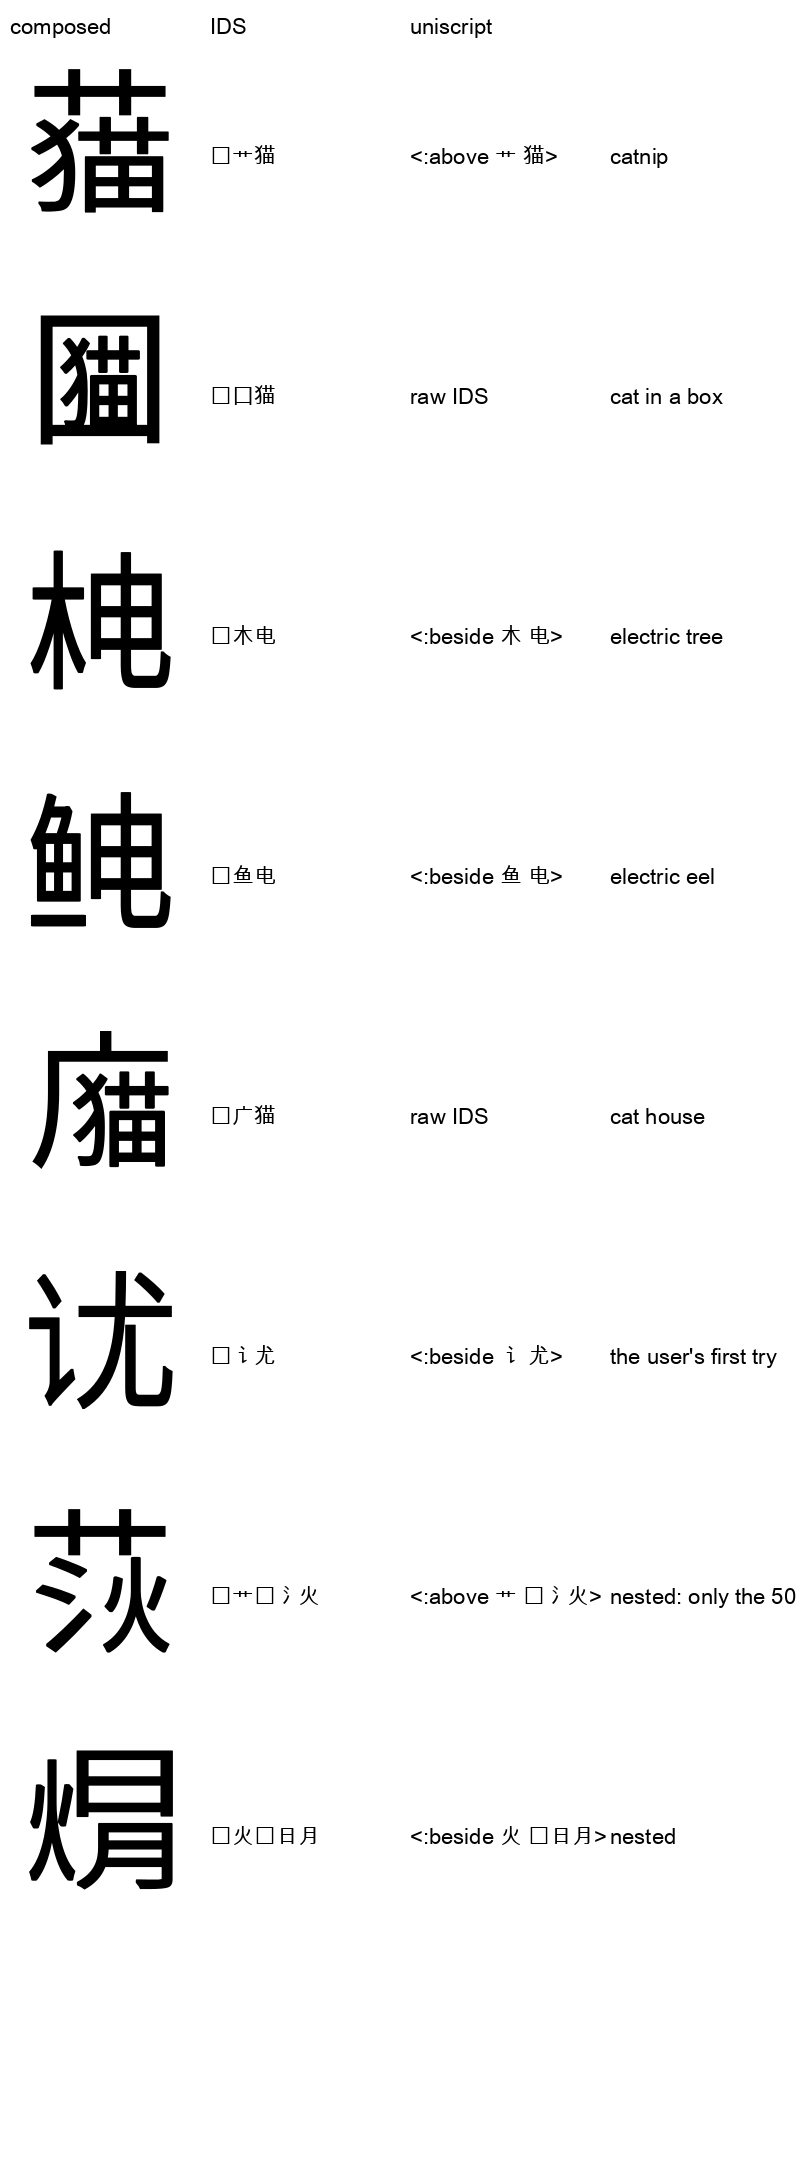
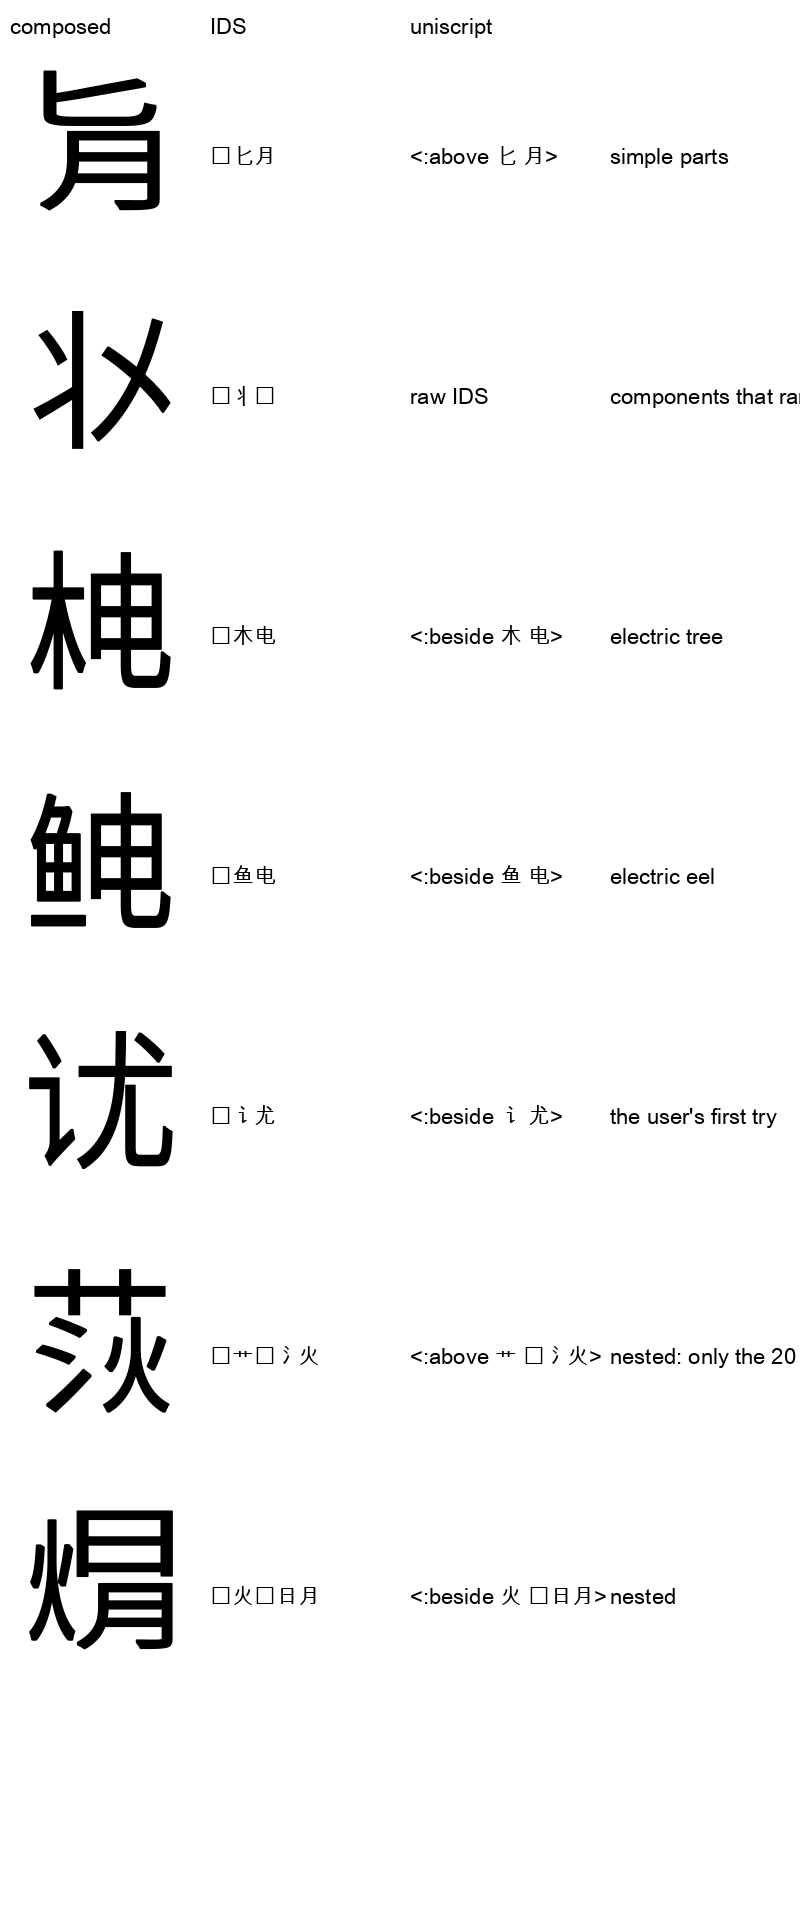
feature(minor): Uniscript Hanzi ranks its parts simplest first (Unihan stroke counts): all radicals, strokes and characters up to 8 strokes, components that rarely stand alone included, complex hanzi left to plain Unicode

diff --git a/fonts/uniscript_fonts.py b/fonts/uniscript_fonts.py
@@ -46,6 +46,8 @@ COLORS = {  # name: (tag letter, RGB)
 IDS_OPERATORS = range(0x2FF0, 0x3000)
 IDS_DATA = os.path.join(SOURCES, "cjkvi-ids.txt")
 IDS_URL = "https://raw.githubusercontent.com/cjkvi/cjkvi-ids/master/ids.txt"
+UNIHAN_DATA = os.path.join(SOURCES, "Unihan.zip")
+UNIHAN_URL = "https://www.unicode.org/Public/UCD/latest/ucd/Unihan.zip"
 OMNI_URL = "https://github.com/nederhof/newgardiner/raw/refs/heads/main/fonts/NewGardinerOmni2d4.ttf"
 LIGATURES_PER_SUBTABLE = 1500  # keeps each LigatureSet below the 64 KB offset limit
 
@@ -61,8 +63,7 @@ HANZI_SHARES = (1 / 3, 0.42, 0.5, 0.58, 2 / 3)  # first part's share of a ⿰ or
 HANZI_BUCKET = 0.25  # parts are classed by their learned strength in steps of this many logits
 HANZI_BUCKETS = range(-4, 5)
 HANZI_NESTED_STRENGTH = 0.6  # a nested sequence holds its own like a dense part
-HANZI_TIERS = (20, 6000)  # the most frequent parts also nest, the others only form simple (unnested) sequences
-HANZI_OFTEN_USED = 20  # parts used this often in IDS rank with the common hanzi
+HANZI_TIERS = (20, 6000)  # the parts IDS use most also nest; the others, simplest first, only form unnested sequences
 HANZI_RASTER = 96  # pixels per em when measuring how real characters split
 HANZI_GRID = 32  # characters and parts are compared at this many pixels square
 HANZI_STRENGTHS = os.path.join(SOURCES, "hanzi-strengths.json")
@@ -716,16 +717,38 @@ def draw_parts(job):
     return variants
 
 
-def ranked_components(cmap):
-    """Parts by how often IDS use them, the often used ones and the common hanzi (what people combine) first."""
+def total_strokes():
+    """{code point: stroke count} from Unihan (kTotalStrokes, first value)."""
+    import zipfile
+    if not os.path.exists(UNIHAN_DATA):
+        download(UNIHAN_URL, UNIHAN_DATA)
+    strokes = {}
+    with zipfile.ZipFile(UNIHAN_DATA) as archive:
+        for line in archive.read("Unihan_IRGSources.txt").decode("utf-8").splitlines():
+            if "\tkTotalStrokes\t" in line:
+                code, _, value = line.split("\t")
+                strokes[int(code[2:], 16)] = int(value.split()[0])
+    return strokes
+
+
+def is_radical_or_stroke(code):
+    return 0x2E80 <= code < 0x2FE0 or 0x31C0 <= code < 0x31F0
+
+
+def ranked_components(cmap, nesting_parts=HANZI_TIERS[0]):
+    """The parts IDS use most (they also nest), then every radical, stroke, component and hanzi from the simplest
+    (fewest strokes) up; among equally simple ones the common hanzi and the parts IDS use most come first."""
     counts = defaultdict(int)
     for _, sequence in ids_sequences(cmap):
         for character in sequence[1:]:
             if ord(character) not in IDS_OPERATORS:
                 counts[character] += 1
-    common = {chr(code) for code in cmap if is_common_hanzi(code)}
-    first = lambda c: c in common or counts[c] >= HANZI_OFTEN_USED
-    return sorted(set(counts) | common, key=lambda c: (not first(c), -counts[c], c))
+    nesting = sorted(counts, key=lambda c: (-counts[c], c))[:nesting_parts]
+    strokes = total_strokes()
+    simple = [chr(code) for code in cmap if is_radical_or_stroke(code) or (0x4E00 <= code < 0xA000 and code in strokes)
+              or (code in strokes and counts[chr(code)])]  # components from the extensions (𠂉 丬 㐅) that rarely stand alone
+    simple.sort(key=lambda c: (strokes.get(ord(c), 0), not is_common_hanzi(ord(c)), -counts[c], c))
+    return nesting + [c for c in simple if c not in nesting]
 
 
 def glyph_name(character):

diff --git a/probes/uniscript-hanzi/render.py b/probes/uniscript-hanzi/render.py
@@ -17,11 +17,10 @@ SIZE = 150
 CELL = 200
 REFERENCES = [("界", "⿱田介"), ("林", "⿰木木"), ("狗", "⿰犭句"), ("草", "⿱艹早"), ("思", "⿱田心"), ("国", "⿴囗玉"), ("连", "⿺辶车")]
 INVENTED = [  # none of these is a Unicode character (checked against cjkvi-ids)
-    ("⿱艹猫", "<:above 艹 猫>", "catnip"),
-    ("⿴囗猫", "raw IDS", "cat in a box"),
+    ("⿱匕月", "<:above 匕 月>", "simple parts"),
+    ("⿰丬㐅", "raw IDS", "components that rarely stand alone"),
     ("⿰木电", "<:beside 木 电>", "electric tree"),
     ("⿰鱼电", "<:beside 鱼 电>", "electric eel"),
-    ("⿸广猫", "raw IDS", "cat house"),
     ("⿰讠尤", "<:beside 讠 尤>", "the user's first try"),
     ("⿱艹⿰氵火", "<:above 艹 ⿰氵火>", "nested: only the 20 most used parts nest"),
     ("⿰火⿱日月", "<:beside 火 ⿱日月>", "nested"),

diff --git a/notes/hanzi.md b/notes/hanzi.md
@@ -2,8 +2,9 @@
 
 Question (user, 2026-10-01): can a font combine arbitrary radicals into new characters with the IDS operators, 界 = ⿱田介?
 **Yes, for simple characters**: `fonts/dist/UniscriptHanzi-Regular.otf` (`python3 fonts/uniscript_fonts.py hanzi`)
-draws any ⿰ ⿱ ⿲ ⿳ ⿴ ⿵ ⿶ ⿷ ⿸ ⿹ ⿺ ⿻ sequence of its 3,910 parts (every character IDS use as a part at least 20 times,
-such as 氵 讠 宀 钅 匕, and the common hanzi of GB 2312 level 1 except 75 compounds no IDS uses, like 饭 = ⿰饣反), whether or not Unicode has the character: ⿰讠尤, ⿱匕月, ⿱艹猫, ⿴囗猫, ⿰鱼电.
+draws any ⿰ ⿱ ⿲ ⿳ ⿴ ⿵ ⿶ ⿷ ⿸ ⿹ ⿺ ⿻ sequence of its 3,910 parts (simplest first by Unihan kTotalStrokes: every radical, stroke
+and character up to 8 strokes, including components that rarely stand alone (㐅 㔾 䒑 丬), plus the 20 parts IDS use most;
+complex characters such as 猫 are left out, so ⿱艹猫 stays uncomposed), whether or not Unicode has the character: ⿰讠尤, ⿱匕月, ⿰木电, ⿰丬㐅.
 One level of nesting works for the 20 most used parts (⿱艹⿰氵火). Renders: `probes/uniscript-hanzi/`
 (`render.py` → reference_*.png real vs composed vs naive, invented_*.png; chrome.png, firefox.png from `browser.html`).
 
@@ -38,6 +39,11 @@ scaled by s regains 70 % of the stem width it lost (`HANZI_KEEP_STROKE`), separa
 naive columns of `reference_ot.png`: composed 林 狗 草 思 国 连 are close to Noto's own; naive halves are spindly.
 
 ## Glyph budget (65,535 per font)
+
+Why 15 sizes per part: ⿰ and ⿱ each split at 5 learned shares (⅓ … ⅔), giving 5 widths and 5 heights, plus the inner
+boxes of the surrounds, the thirds of ⿲ ⿳ and the full size. With 3 shares it would be ≈9 sizes and ≈6,500 parts, but
+讠 or 艹 would then take 40 % instead of a third. Since 3,910 parts already reach every character up to 8 strokes, the
+proportions are worth more than the extra parts.
 
 Nothing is generated at render time: OpenType cannot scale or draw outlines while shaping, it can only pick and move
 glyphs that exist. So every part is precompiled at each size it can take, but combinations are not: the cost grows with

diff --git a/fonts/README.md b/fonts/README.md
@@ -33,7 +33,7 @@ Tags are default-ignorable: without these fonts the text shows the plain charact
 |---|---|---|
 | **Uniscript Sans** | Noto Sans (Latin, Greek, Cyrillic) + Noto Sans Math | ASCII + Greek letters: all geometries × all colors; Latin-1/Ext-A, Greek, symbols, arrows, operators: every geometry or color, not combined; the rest, including math alphanumerics 𝔄𝕕: mirror and turn |
 | **Uniscript CJK** | Noto Sans CJK | IDS composition (27,688 sequences from cjkvi-ids, nested ones too: ⿱木⿰木木 → 森); mirror for radicals, strokes and the 3,755 most common hanzi (GB 2312 level 1) |
-| **Uniscript Hanzi** | Noto Sans CJK, 3,910 parts | IDS draw **new** characters from scaled, re-thickened parts with learned proportions: ⿰讠尤, ⿱艹猫, ⿴囗猫; one level of nesting for the 20 most used parts (⿱艹⿰氵火). A separate font, put it before Uniscript CJK; see [notes/hanzi.md](../notes/hanzi.md) |
+| **Uniscript Hanzi** | Noto Sans CJK, 3,910 parts | IDS draw **new** characters from scaled, re-thickened parts with learned proportions: ⿰讠尤, ⿱匕月, ⿰丬㐅; one level of nesting for the 20 most used parts (⿱艹⿰氵火). A separate font, put it before Uniscript CJK; see [notes/hanzi.md](../notes/hanzi.md) |
 | **NewGardinerOmni2d4** | Nederhof's NewGardiner, OFL, unchanged | Unicode 15 Egyptian format controls: joiners U+13430 vertical / U+13431 horizontal, insertions, U+13440 mirror, groups up to depth 4 |
 | **… Mirror** | NFM-Indus Script (Sublime), JetBrains Mono (JetBrains IDEs), Monaco (iTerm), Menlo (VS Code) | mirror for every character, advance kept, so monospace stays monospace |
 

diff --git a/docs/uniscript.md b/docs/uniscript.md
@@ -296,7 +296,7 @@ script-neutral characters such as TAG join the preceding run, so a prefix is cut
 # New hanzi
 
 The font Uniscript Hanzi (`python3 fonts/uniscript_fonts.py hanzi`) draws any Ideographic Description Sequence of its 3,910
-parts, also characters Unicode does not have: `<:beside 讠 尤>` ⩵ ⿰讠尤, `<:above 艹 猫>` ⩵ ⿱艹猫, and raw IDS such as ⿴囗猫 or,
+parts, also characters Unicode does not have: `<:beside 讠 尤>` ⩵ ⿰讠尤, `<:above 匕 月>` ⩵ ⿱匕月, and raw IDS such as ⿰丬㐅 or,
 for the most used parts, nested ⿱艹⿰氵火 (`<:above 艹 ⿰氵火>`). Parts are scaled into proportions learned from real
 characters and their strokes thickened back. It works in HarfBuzz (Chrome) and CoreText (Safari, macOS apps) wherever the
 font draws the whole sequence; details and limits in [notes/hanzi.md](../notes/hanzi.md).
